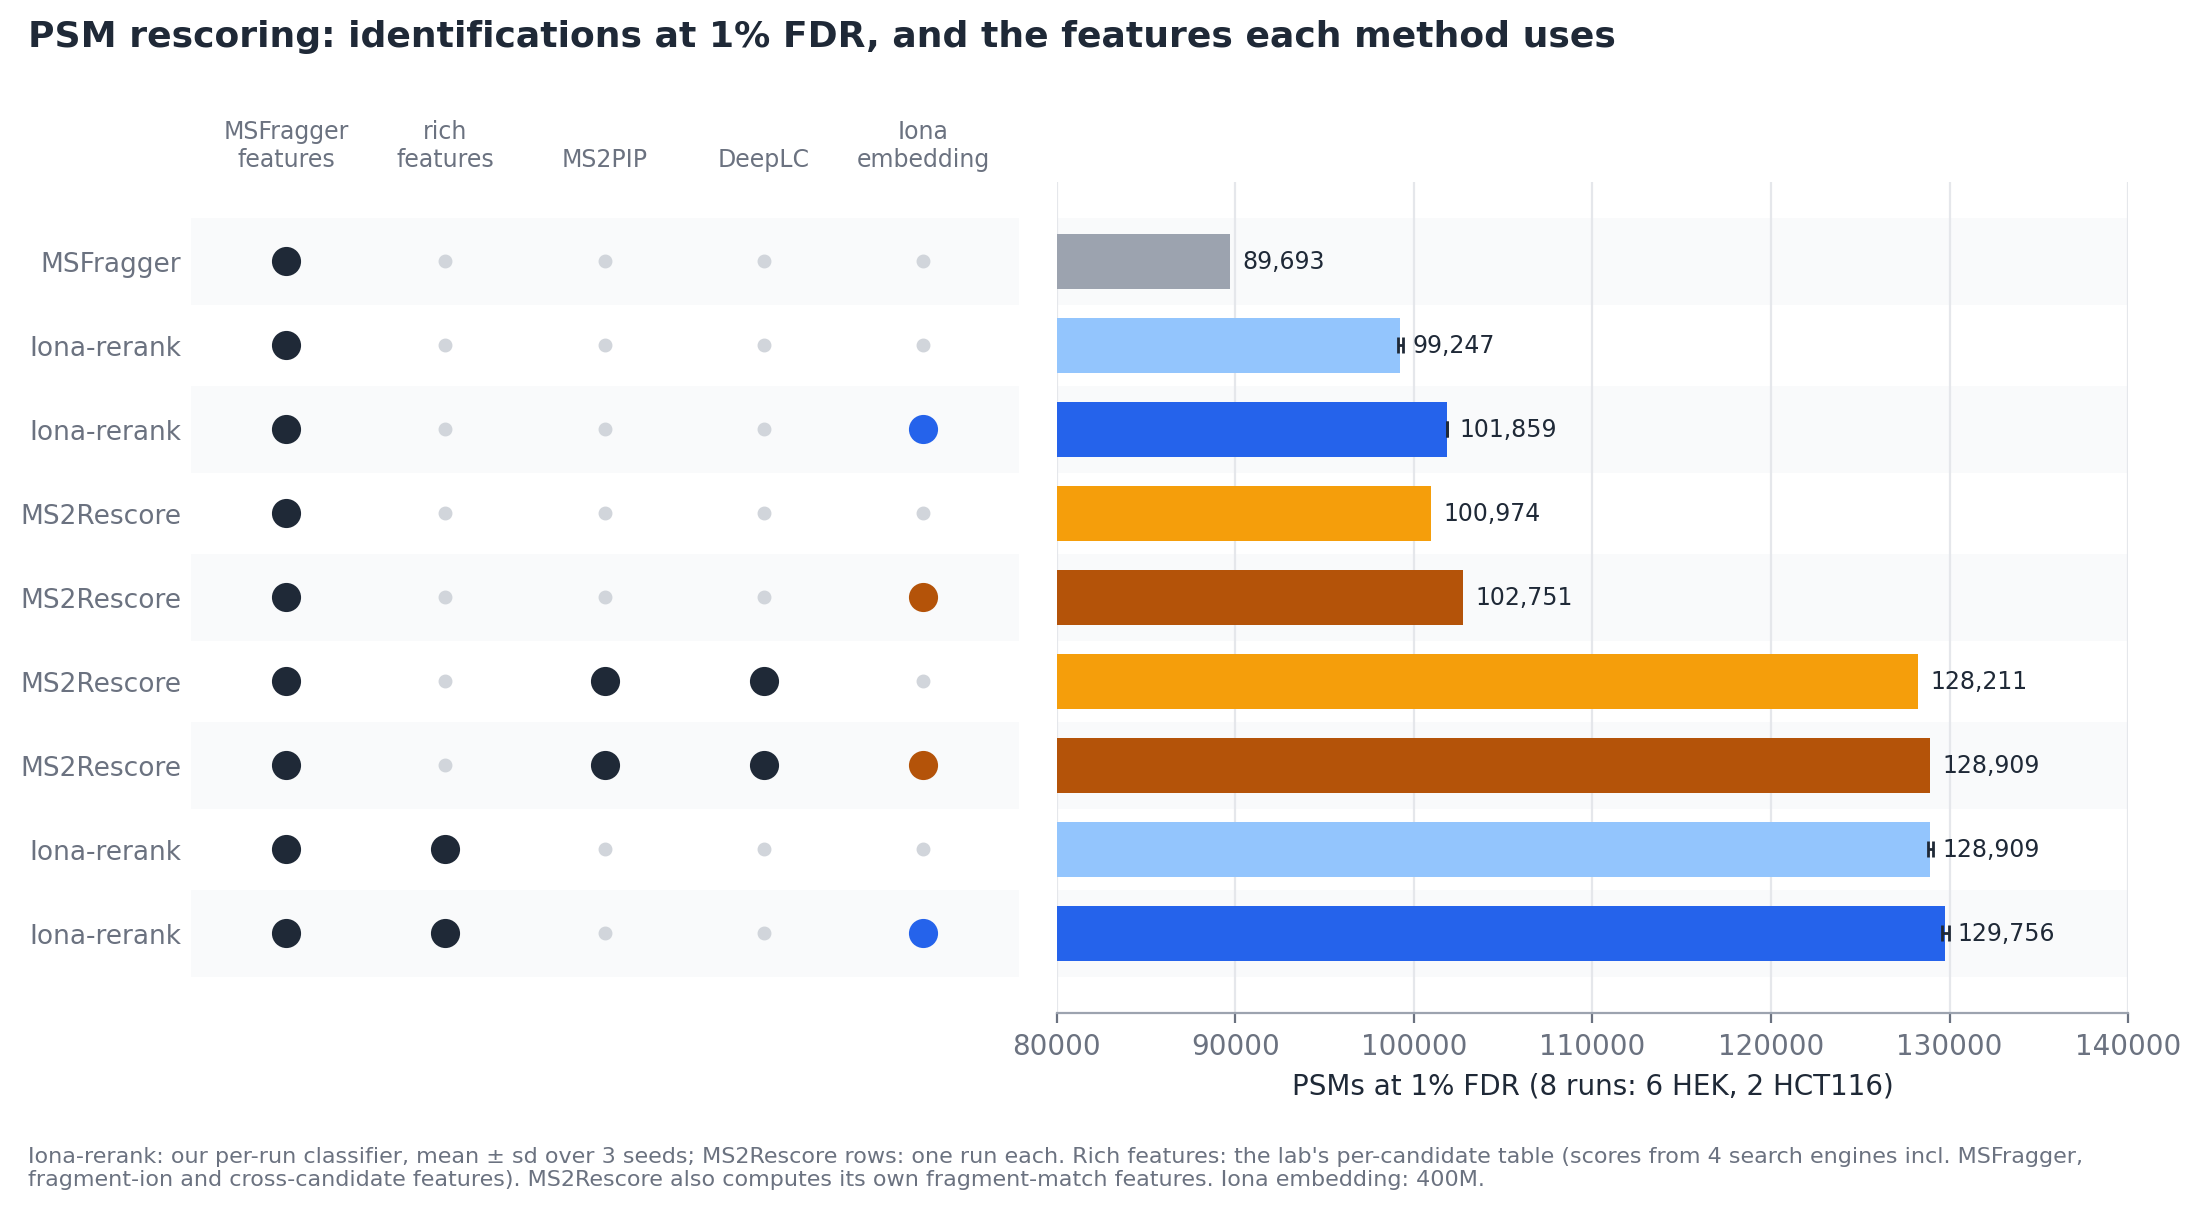
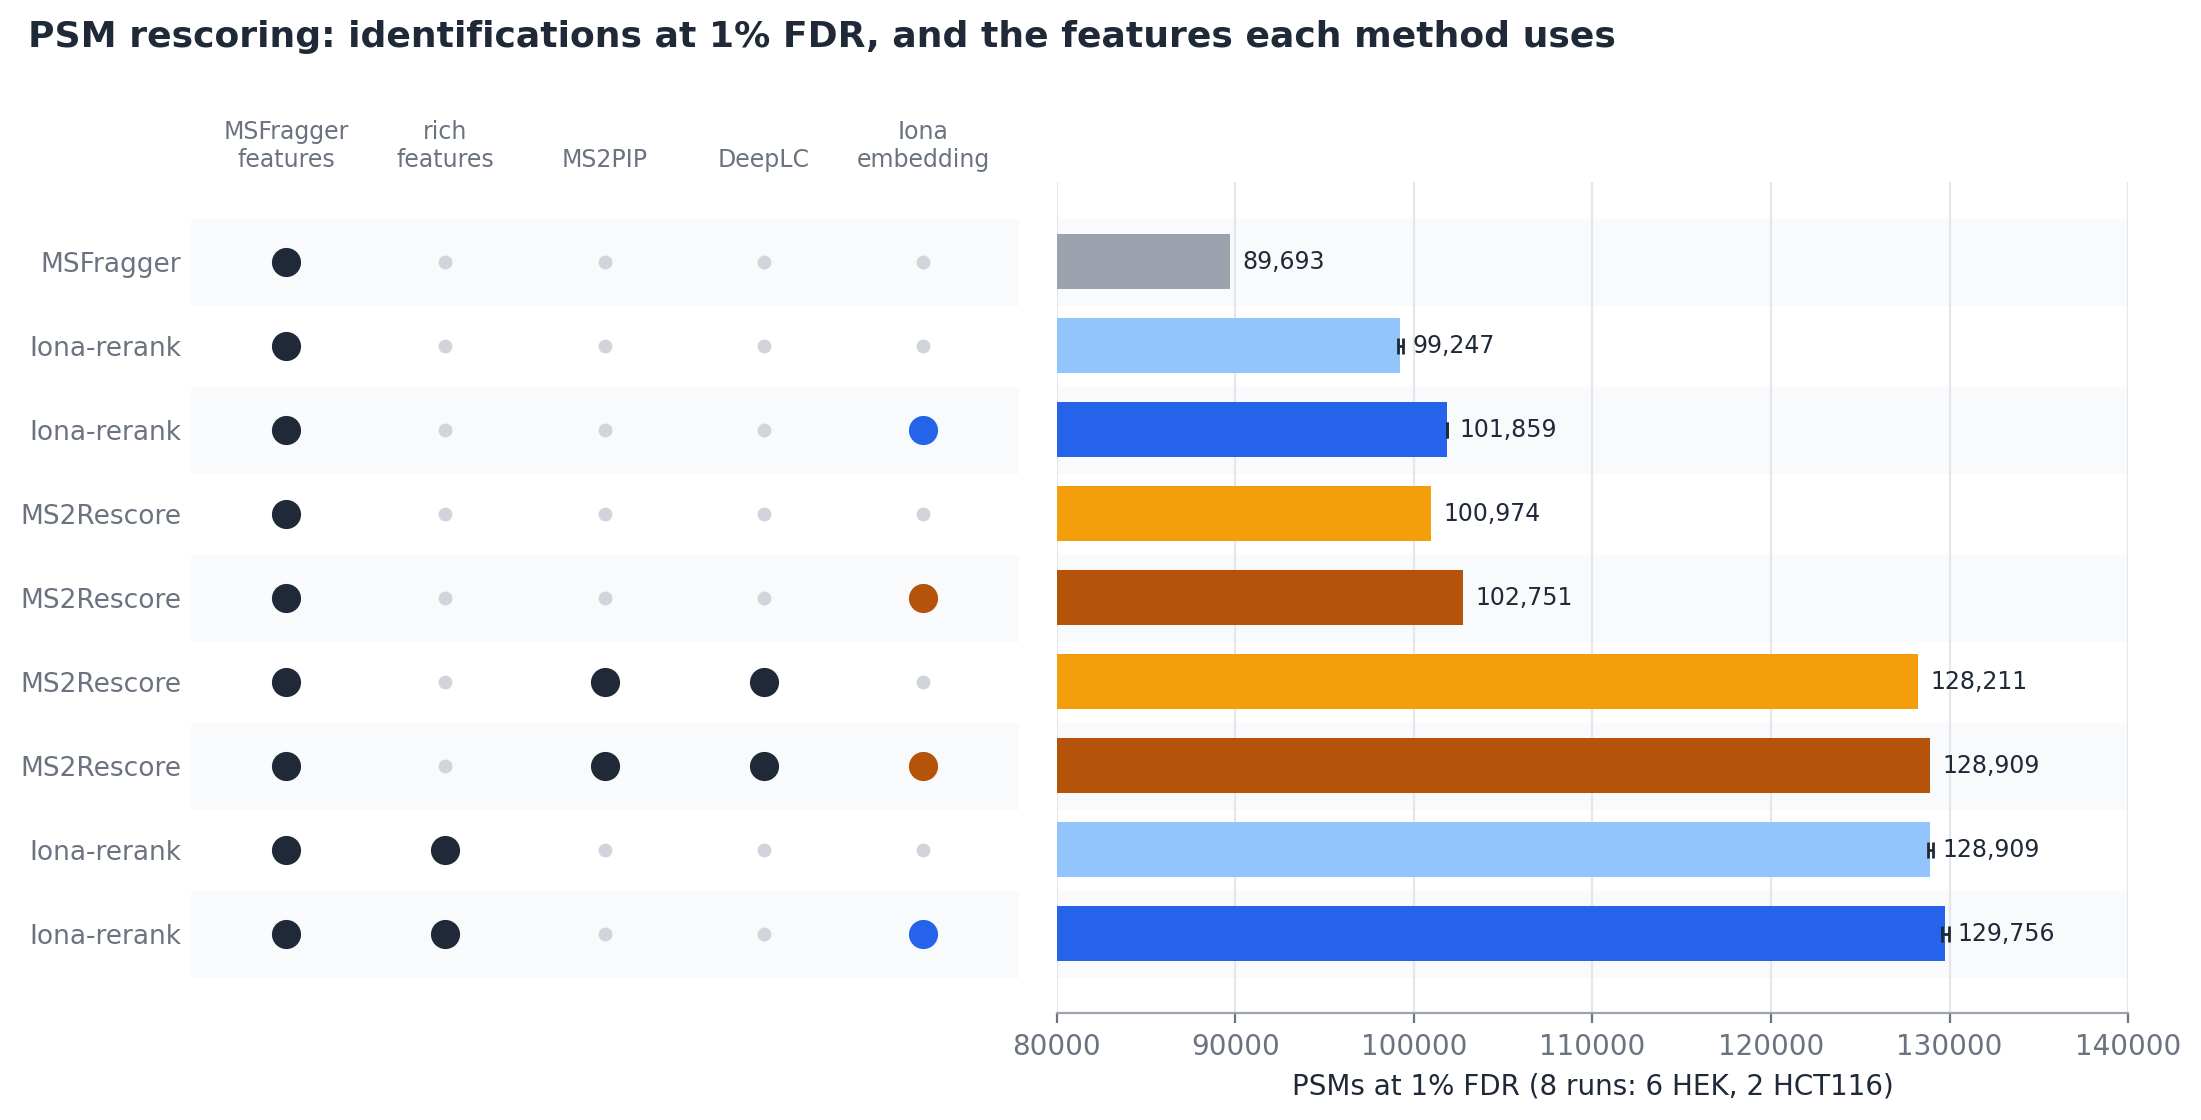
R_benchmark: drop the footnote (definitions live in the README)
Claude-Session: https://claude.ai/code/session_01ATgkXx1oRRqvzB3G8wYeta

diff --git a/paper/experiments/reranking/plot_reranking.py b/paper/experiments/reranking/plot_reranking.py
@@ -119,11 +119,6 @@ def benchmark(csv_path=None, out_path=None):
         ax.spines["left"].set_visible(False); ax.tick_params(axis="y", length=0)
         fig.suptitle("PSM rescoring: identifications at 1% FDR, and the features each method uses", x=0.06, ha="left",
                      fontsize=13, fontweight="bold", y=1.03)
-        fig.text(0.06, -0.05, "Iona-rerank: our per-run classifier, mean ± sd over 3 seeds; MS2Rescore rows: one run each. "
-                 "Rich features: the lab's per-candidate table (scores from 4 search engines incl. MSFragger,\n"
-                 "fragment-ion and cross-candidate features). MS2Rescore also computes its own fragment-match features. "
-                 "Iona embedding: 400M.",
-                 fontsize=8, color=MUTED)
         fig.savefig(out_path or HERE / "R_benchmark.png"); plt.close(fig)
 
 
